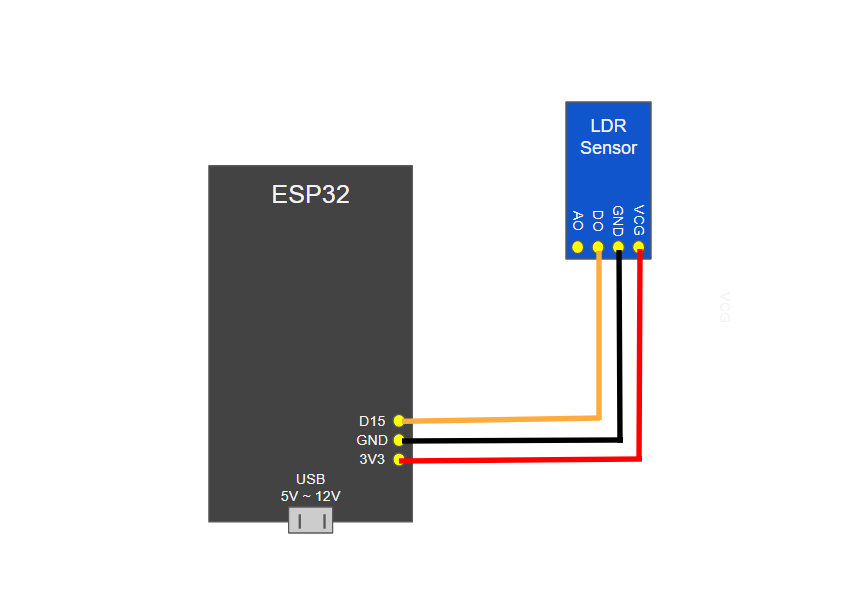
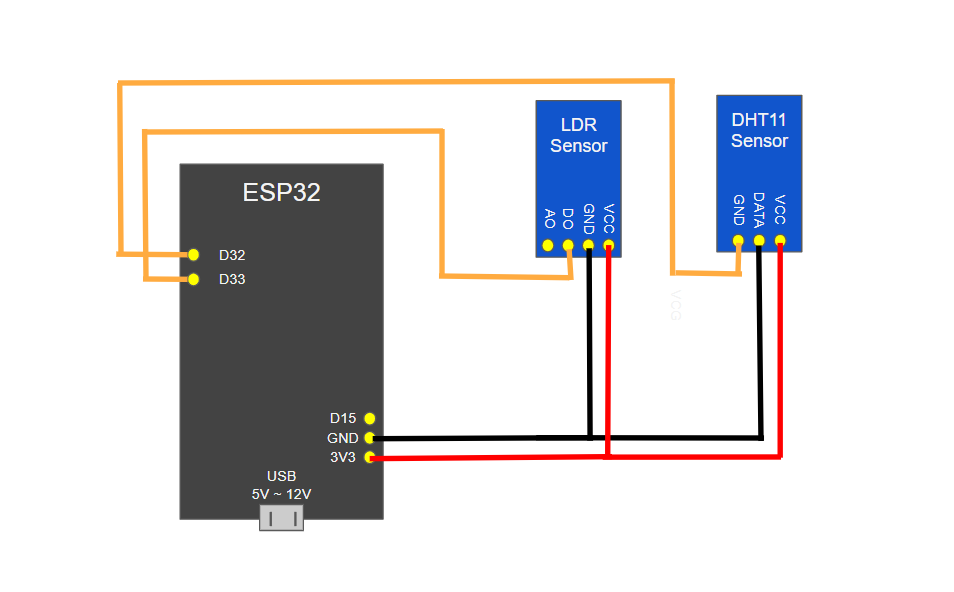
ESP32 communication optmized and Temp/Hum sensor added

Changed region(s): [[0.1221, 0.1216, 0.8545, 0.9122]]

diff --git a/src/env/homer/weather/CheckRoomHum.java b/src/env/homer/weather/CheckRoomHum.java
@@ -1,4 +1,4 @@
-package homer.lightsControl;
+package homer.weather;
 
 import java.net.URI;
 import java.net.http.HttpClient;
@@ -7,27 +7,27 @@ import java.net.http.HttpResponse;
 
 import com.google.gson.Gson;
 
-class ReturnValues {
-	private int return_value;
-	ReturnValues(){	
-	}
-	public int getLight() {
-		return return_value;
-	}
-}
-
-public class CheckLights {
-
-	private static String ESP32IP = "ESP32_IP"; // Inserir o IP do ESP32 exibido no console da IDE da placa
+public class CheckRoomHum {
 	
-	public static String check() {
+	class ReturnValues {
+		private int return_value;
+		ReturnValues(){	
+		}
+		public int getHum() {
+			return return_value;
+		}
+	}
+
+private static String ESP32IP = "ESP32_IP"; // Inserir o IP do ESP32 exibido no console da IDE da placa
+	
+	public static void main(String args[]) {
 		try {
 			String status = null;
 			// Envia uma solicitação de variavel para o ESP32
 			System.out.print("Enviando Request ao ESP32... ");
        	 	HttpClient client = HttpClient.newHttpClient();
             HttpRequest request = HttpRequest.newBuilder() // Request para atualizar e retornar valor do sensor 
-                    .uri(URI.create("http://" + ESP32IP + "/checkLight")) 
+                    .uri(URI.create("http://" + ESP32IP + "/checkHum")) 
                     .build();
             HttpResponse<String> response = client.send(request,
             			HttpResponse.BodyHandlers.ofString());
@@ -37,23 +37,17 @@ public class CheckLights {
             // Organiza a resposta em JSON
             Gson gson = new Gson();
             ReturnValues Jresponse = gson.fromJson(response.body(), ReturnValues.class);
-            
-            // Verifica a variavel e exibe a resposta
-            if(Jresponse.getLight() == 0) {
-            	status = "On";
-            	System.out.println("A luz está ligada");
-            } else if(Jresponse.getLight() == 1) {
-            	status = "Off";
-            	System.out.println("A luz está desligada");
+            if(!(Jresponse.getHum() > 150)) {
+            	 System.out.printf("Humidade: %d%%",Jresponse.getHum());
             } else {
-            	status = "Erro";
-            	System.out.println("Não foi possivel reconhecer o estado da luz");
+            	System.out.println("Erro no sensor");
             }
-            return status;
+           
+            
+           
        } catch (Exception e) {
     	    System.out.printf("\n Não foi possivel conectar ao ESP32");
-    	    // e.printStackTrace();
-    	    return "Erro";
+    	    //e.printStackTrace();
        }
 	}
 }

diff --git a/src/env/homer/weather/CheckRoomTemp.java b/src/env/homer/weather/CheckRoomTemp.java
@@ -1,4 +1,4 @@
-package homer.lightsControl;
+package homer.weather;
 
 import java.net.URI;
 import java.net.http.HttpClient;
@@ -7,27 +7,27 @@ import java.net.http.HttpResponse;
 
 import com.google.gson.Gson;
 
-class ReturnValues {
-	private int return_value;
-	ReturnValues(){	
+public class CheckRoomTemp{
+	
+	class ReturnValues {
+		private int return_value;
+		ReturnValues(){	
+		}
+		public int getTemp() {
+			return return_value;
+		}
 	}
-	public int getLight() {
-		return return_value;
-	}
-}
-
-public class CheckLights {
 
 	private static String ESP32IP = "ESP32_IP"; // Inserir o IP do ESP32 exibido no console da IDE da placa
 	
-	public static String check() {
+	public static void main(String args[]) {
 		try {
 			String status = null;
 			// Envia uma solicitação de variavel para o ESP32
 			System.out.print("Enviando Request ao ESP32... ");
        	 	HttpClient client = HttpClient.newHttpClient();
             HttpRequest request = HttpRequest.newBuilder() // Request para atualizar e retornar valor do sensor 
-                    .uri(URI.create("http://" + ESP32IP + "/checkLight")) 
+                    .uri(URI.create("http://" + ESP32IP + "/checkTemp")) 
                     .build();
             HttpResponse<String> response = client.send(request,
             			HttpResponse.BodyHandlers.ofString());
@@ -37,23 +37,16 @@ public class CheckLights {
             // Organiza a resposta em JSON
             Gson gson = new Gson();
             ReturnValues Jresponse = gson.fromJson(response.body(), ReturnValues.class);
-            
-            // Verifica a variavel e exibe a resposta
-            if(Jresponse.getLight() == 0) {
-            	status = "On";
-            	System.out.println("A luz está ligada");
-            } else if(Jresponse.getLight() == 1) {
-            	status = "Off";
-            	System.out.println("A luz está desligada");
+            if(!(Jresponse.getTemp() > 100)) {
+            	System.out.printf("Temperatura: %d ºC",Jresponse.getTemp());
             } else {
-            	status = "Erro";
-            	System.out.println("Não foi possivel reconhecer o estado da luz");
+            	System.out.println("Erro no sensor");
             }
-            return status;
+            
+           
        } catch (Exception e) {
     	    System.out.printf("\n Não foi possivel conectar ao ESP32");
     	    // e.printStackTrace();
-    	    return "Erro";
        }
 	}
 }
